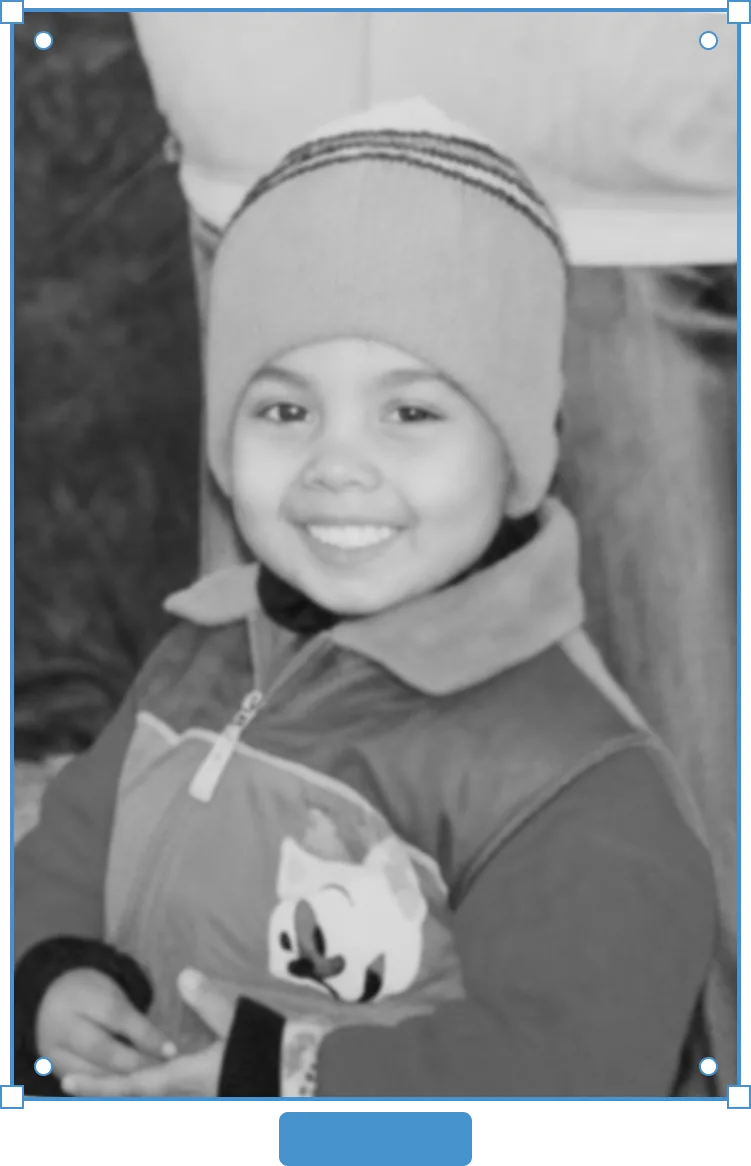
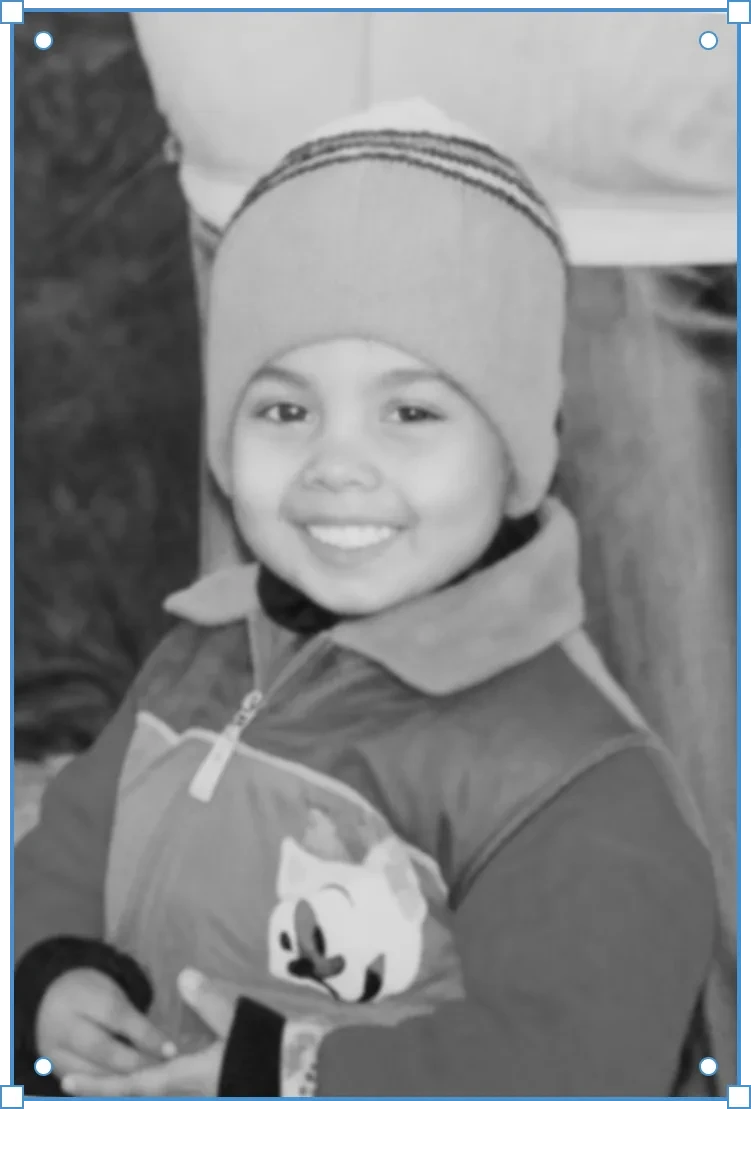
Remove blue pill from hero photos, 120px card gap, LumiTrack personal opening and next steps
Claude-Session: https://claude.ai/code/session_01RbJu4ENjvQVX4t9txAJ5Am

Changed region(s): [[0.3675, 0.9262, 0.6431, 1.0]]

diff --git a/my-work/project-3/index.html b/my-work/project-3/index.html
@@ -855,8 +855,9 @@
           <!-- ================= THE QUESTION ================= -->
           <section class="cs-section" id="question">
             <p class="cs-eyebrow">02 &middot; WHERE IT STARTED</p>
-            <h2 class="cs-heading" data-reveal>Our college already uses so many platforms. <span style="color:#E87B35;">Does any of it help?</span></h2>
-            <p class="cs-body cs-mb-32">Classroom for submissions, Excel for grading, WhatsApp for mentoring, Teams for schedules, TCS iON for attendance. And still,</p>
+            <h2 class="cs-heading" data-reveal>It started with a group project where we all got <span style="color:#E87B35;">the same marks</span></h2>
+            <p class="cs-body">Since our second semester, almost everything we've made as UX students has been group work. In nearly every group, someone didn't pull their weight, and everyone still walked away with the same grade. It never felt fair.</p>
+            <p class="cs-body cs-mb-32">So we looked at how our college handles feedback. Classroom for submissions, Excel for grading, WhatsApp for mentoring, Teams for schedules, TCS iON for attendance. So many platforms, and still,</p>
             <p class="lt-problem" data-reveal>Feedback is <mark>inconsistent</mark>, expectations are <mark>unclear</mark>, guidance is <mark>rarely personal</mark>, group work <mark>hides individual effort</mark>, and faculty are <mark>drowning in admin</mark>.</p>
             <p class="v2-bridge">so we went and asked</p>
           </section>
@@ -889,7 +890,7 @@
               <li data-reveal><b>No faces</b>Work can't be matched to the student who asked</li>
             </ul>
 
-            <div class="cs-callout" data-reveal><p>Students said it best. Even when they asked for help, there were too many of them for one faculty member to remember who was working on what. So we designed for faculty first.</p></div>
+            <div class="cs-callout" data-reveal><p>We came in to make grading fairer for students. The interviews showed us where unfairness starts. One faculty member simply has too many of us to see who did what. So we designed for faculty first.</p></div>
             <p class="v2-bridge">then we followed one through a semester</p>
           </section>
 
@@ -1045,9 +1046,37 @@
             </div>
           </section>
 
+          <!-- ================= NEXT ================= -->
+          <section class="cs-section" id="next">
+            <p class="cs-eyebrow">09 &middot; WHAT WE'D TEST NEXT</p>
+            <h2 class="cs-heading" data-reveal>Where this stands</h2>
+            <p class="cs-body cs-mb-32">A four week student project, tested with faculty but not built. Three things we'd want to know before it is.</p>
+            <div class="cs-reflection-item" data-reveal>
+              <span class="cs-reflection-num">01</span>
+              <div class="cs-reflection-text">
+                <p class="cs-reflection-title">Does AI suggested feedback stay personal?</p>
+                <p class="cs-reflection-body">Watch whether faculty edit the suggestions, or start accepting them as they are.</p>
+              </div>
+            </div>
+            <div class="cs-reflection-item" data-reveal>
+              <span class="cs-reflection-num">02</span>
+              <div class="cs-reflection-text">
+                <p class="cs-reflection-title">Is the contribution log honest?</p>
+                <p class="cs-reflection-body">Students log their own parts. Do their teammates agree with what's logged?</p>
+              </div>
+            </div>
+            <div class="cs-reflection-item" data-reveal>
+              <span class="cs-reflection-num">03</span>
+              <div class="cs-reflection-text">
+                <p class="cs-reflection-title">Would faculty trust a photo of the register?</p>
+                <p class="cs-reflection-body">Count how often photo attendance needs fixing by hand.</p>
+              </div>
+            </div>
+          </section>
+
           <!-- ================= FUTURE ================= -->
           <section class="cs-section" id="future">
-            <p class="cs-eyebrow">09 &middot; FUTURE SCOPE</p>
+            <p class="cs-eyebrow">10 &middot; FUTURE SCOPE</p>
             <h2 class="cs-heading" data-reveal>Today a focused LMS. <span style="color:#E87B35;">Tomorrow the whole institute.</span></h2>
             <p class="cs-body">LumiTrack starts with feedback, evaluation and mentoring. It could grow into an education resource management system for a whole institute, a modern alternative to tools like TCS iON.</p>
             <div class="cs-reflection-item" data-reveal>
@@ -1159,6 +1188,7 @@
             <li><a href="#borrow" data-target="borrow"><span class="cs-toc-label">What Already Worked</span></a></li>
             <li><a href="#screens" data-target="screens"><span class="cs-toc-label">The Design</span></a></li>
             <li><a href="#validated" data-target="validated"><span class="cs-toc-label">What Faculty Said</span></a></li>
+            <li><a href="#next" data-target="next"><span class="cs-toc-label">Where This Stands</span></a></li>
             <li><a href="#future" data-target="future"><span class="cs-toc-label">Future Scope</span></a></li>
           </ol>
         </nav>

diff --git a/index.html b/index.html
@@ -127,7 +127,7 @@
   </style>
   <link rel="stylesheet" href="partials/whimsy.css?v=20261005g" />
   <link rel="stylesheet" href="partials/mobile-menu.css?v=20261005w" />
-  <link rel="stylesheet" href="partials/project-cards.css?v=20261009b" />
+  <link rel="stylesheet" href="partials/project-cards.css?v=20261009c" />
   <link rel="stylesheet" href="partials/home.css?v=20261005u" />
 </head>
 
@@ -250,7 +250,7 @@
               class="hero-photo-default object-contain"
               decoding="async"
               fetchpriority="high"
-              src="./assets/images/my-photo.webp"
+              src="./assets/images/my-photo.webp?v=2"
               style="position:absolute;height:100%;width:100%;left:0;top:0;right:0;bottom:0;
                      color:transparent;background-position:50% 50%;background-repeat:no-repeat;"
             />
@@ -259,7 +259,7 @@
               class="hero-photo-hover object-contain"
               decoding="async"
               loading="lazy"
-              src="./assets/images/childhood-photo.webp"
+              src="./assets/images/childhood-photo.webp?v=2"
               style="position:absolute;height:100%;width:100%;left:0;top:0;right:0;bottom:0;
                      color:transparent;background-position:50% 50%;background-repeat:no-repeat;"
             />

diff --git a/partials/project-cards.css b/partials/project-cards.css
@@ -2,7 +2,7 @@
    Animations live in partials/project-cards.js. Every class starts with pc- so
    nothing here collides with the compiled Tailwind in css/style.css. */
 
-.pc-list { display: flex; flex-direction: column; gap: 150px; padding: 8px 8px 0; }
+.pc-list { display: flex; flex-direction: column; gap: 120px; padding: 8px 8px 0; }
 
 .pc-card {
   display: grid;
